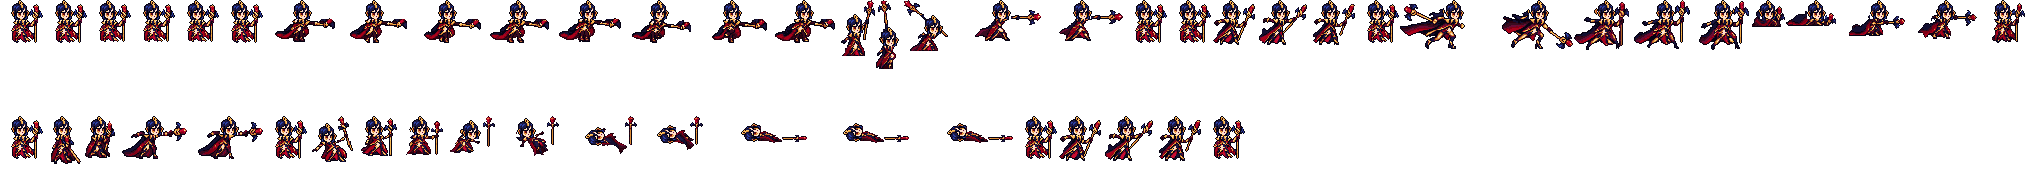
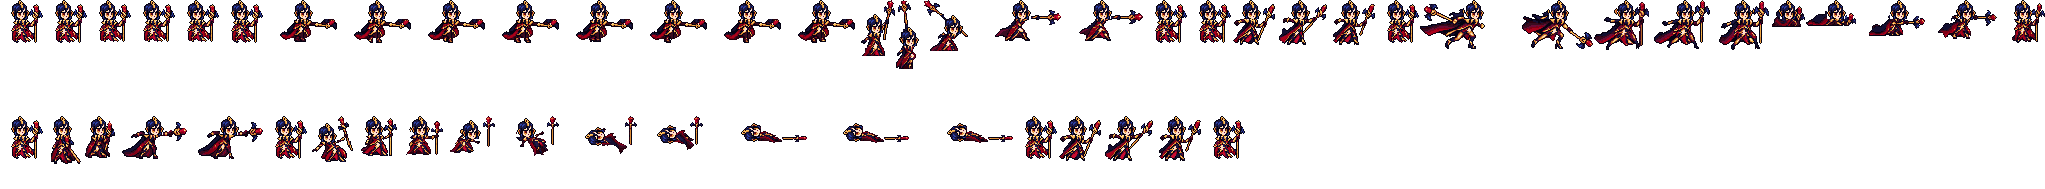
LeBlanc: one upper body through the run, each frame's own legs
The user: "移动时候头和身体不协调 像脱节了一样". Codex's redo drew the body anew in every frame under the pasted head:
the collar 1-3 squares off the chin from frame to frame, the cape and the staff jumping, so the steadied head floated
over a body moving on its own. fix_leblanc_strips.run now gives all eight frames frame 3's upper body (head, collar,
torso, cape, staff as one block) moved with Codex's head (frames 1 and 5 a row lower), each frame keeping only its own
legs under row 63 in the legs' columns. Sprite re-imported.

Changed region(s): [[0.0, 0.0, 0.9956, 0.3704], [0.0, 0.6085, 0.6222, 0.873]]

diff --git a/tools/art/fix_leblanc_strips.py b/tools/art/fix_leblanc_strips.py
@@ -12,8 +12,8 @@ checks passed (blocks, palette, alpha, feet line, the head square for square); w
    edge, tails), repeated - design_leblanc.black_crumbs, the rule the design was cleaned with - and what that cuts
    off up to CRUMB squares.
 2. Frame fixes (FIXES below), each a few squares, the rest Codex's. The run is Codex's redo (RUN_REDO.md; its first
-   run kept one wide stance - my own leg redraw on it was turned down: "做的不行 让codex帮忙重做吧"), the head's
-   surroundings checked clean.
+   run kept one wide stance - my own leg redraw on it was turned down: "做的不行 让codex帮忙重做吧") with one upper body
+   in all eight frames and each frame's own legs (run below: "移动时候头和身体不协调 像脱节了一样").
 Writes assets/source/native/leblanc_<tag>.png (8x), leblanc_ult.png (Q's: R repeats her last spell with that spell's
 own animation) and leblanc_cells.json (the pack's, with ult); then run tools/art/import_native.py --hero leblanc. --check compares with the files instead of writing them.
 """
@@ -127,21 +127,28 @@ def design_head():
     return d[y0:ys.max() + 1, x0:xs.max() + 1], m[y0:ys.max() + 1, x0:xs.max() + 1]
 
 
+def find_head(f):
+    """The design's head in a frame, square for square: its corner (x, y)."""
+    head, hm = design_head()
+    best = (0, 0, 0)
+    for y in range(f.shape[0] - head.shape[0] + 1):
+        for x in range(f.shape[1] - head.shape[1] + 1):
+            s = (np.all(f[y:y + head.shape[0], x:x + head.shape[1]] == head, -1) & hm).sum()
+            if s > best[0]:
+                best = (s, x, y)
+    s, hx, hy = best
+    if s < hm.sum():
+        raise ValueError(f"the design's head is not in this frame ({s}/{hm.sum()})")
+    return hx, hy
+
+
 def head_halo(f, pivot):
     """The run: Codex's own ear-cuffs (gold, 1-2 squares) stayed beside the pasted head in frames 5-8 and flickered
     by the ears as she ran ("走路的时候左右耳会冒出来什么东西"). Round the head (found square for square), from its top
     down to the ear-cuffs, only the head stays within HALO squares of it."""
     g = f.copy()
     head, hm = design_head()
-    best = (0, 0, 0)
-    for y in range(g.shape[0] - head.shape[0] + 1):
-        for x in range(g.shape[1] - head.shape[1] + 1):
-            s = (np.all(g[y:y + head.shape[0], x:x + head.shape[1]] == head, -1) & hm).sum()
-            if s > best[0]:
-                best = (s, x, y)
-    s, hx, hy = best
-    if s < hm.sum():
-        raise ValueError(f"the design's head is not in this frame ({s}/{hm.sum()})")
+    hx, hy = find_head(g)
     m = np.zeros(g.shape[:2], bool)
     m[hy:hy + head.shape[0], hx:hx + head.shape[1]] = hm
     near = np.zeros_like(m)
@@ -196,10 +203,44 @@ def near_arm(f, pivot):
 FIXES = {("attack", 3): attack3_staff, ("attack", 4): near_arm, ("attack", 5): near_arm}
 
 
+RUN_BODY = 3                    # the run frame whose upper body every frame wears (1-based)
+RUN_LEGS = 63                   # from this row down, in the legs' columns, each frame keeps its own legs
+LEGS_X = (-13, 13)              # the legs' columns from the pivot
+
+
+def shift(a, dx, dy):
+    out = np.zeros_like(a)
+    H, W = a.shape[:2]
+    ys, yd = (slice(0, H - dy), slice(dy, H)) if dy >= 0 else (slice(-dy, H), slice(0, H + dy))
+    xs, xd = (slice(0, W - dx), slice(dx, W)) if dx >= 0 else (slice(-dx, W), slice(0, W + dx))
+    out[yd, xd] = a[ys, xs]
+    return out
+
+
 def run(frames, pivots):
-    """The run, Codex's redo (codex_run_redo: a crossing stride, passing in frames 3 and 7, a foot on the line in every
-    frame): every frame still loses whatever stands beside the head (head_halo; Codex cleared it this time)."""
-    return [head_halo(f, p) for f, p in zip(frames, pivots)]
+    """The run, Codex's redo (codex_run_redo: a crossing stride, a foot on the line in every frame) - but it drew the
+    body anew in every frame under the pasted head, the collar 1-3 squares off it from frame to frame, the cape and the
+    staff jumping: the head seemed to float over a body moving on its own (the user: "移动时候头和身体不协调 像脱节了一
+    样"). So every frame wears frame RUN_BODY's upper body - the head, the collar, the torso, the cape and the staff one
+    block - moved with Codex's head (frames 1 and 5 a row lower: the bob), and keeps only its own legs: under row
+    RUN_LEGS in the legs' columns, behind the gown. Codex's own ear-cuffs beside the head go first (head_halo)."""
+    frames = [head_halo(f, p) for f, p in zip(frames, pivots)]
+    heads = [find_head(f) for f in frames]
+    k0 = RUN_BODY - 1
+    body = frames[k0].copy()
+    px = pivots[k0][0]
+    body[RUN_LEGS:, px + LEGS_X[0]:px + LEGS_X[1] + 1] = 0
+    out = []
+    for k, (f, p) in enumerate(zip(frames, pivots)):
+        dx, dy = heads[k][0] - heads[k0][0], heads[k][1] - heads[k0][1]
+        g = shift(body, dx, dy)
+        legs = np.zeros_like(f)
+        cols = slice(p[0] + LEGS_X[0], p[0] + LEGS_X[1] + 1)
+        legs[RUN_LEGS + dy:, cols] = f[RUN_LEGS + dy:, cols]
+        m = (legs[..., 3] > 0) & (g[..., 3] == 0)
+        g[m] = legs[m]
+        out.append(g)
+    return out
 
 
 TAG_FIXES = {"run": run}
